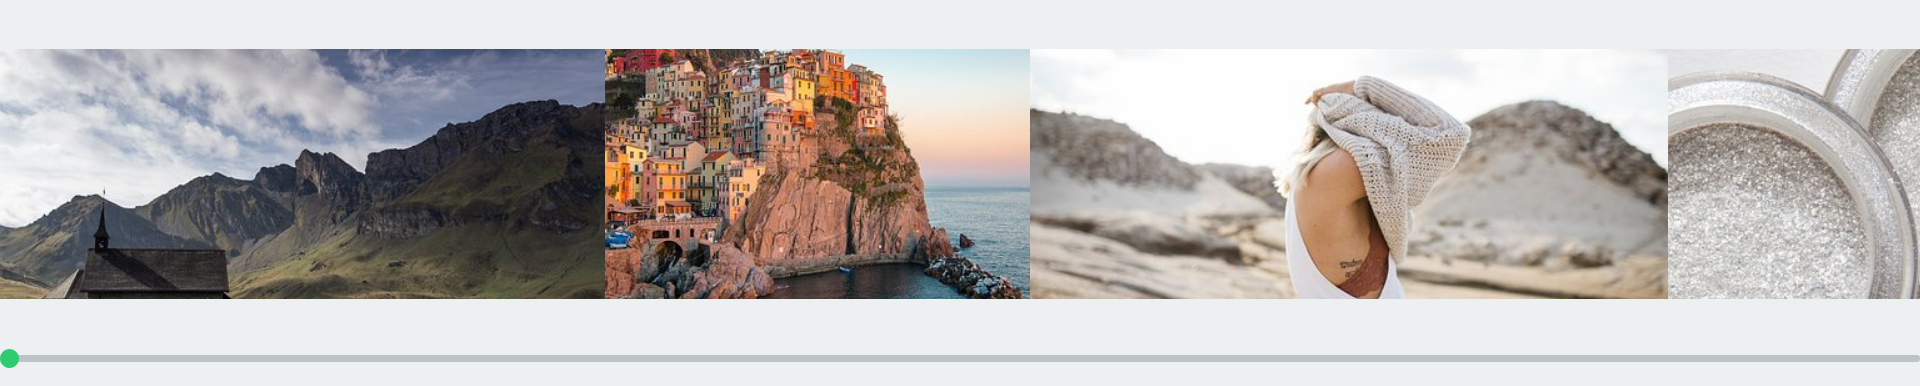
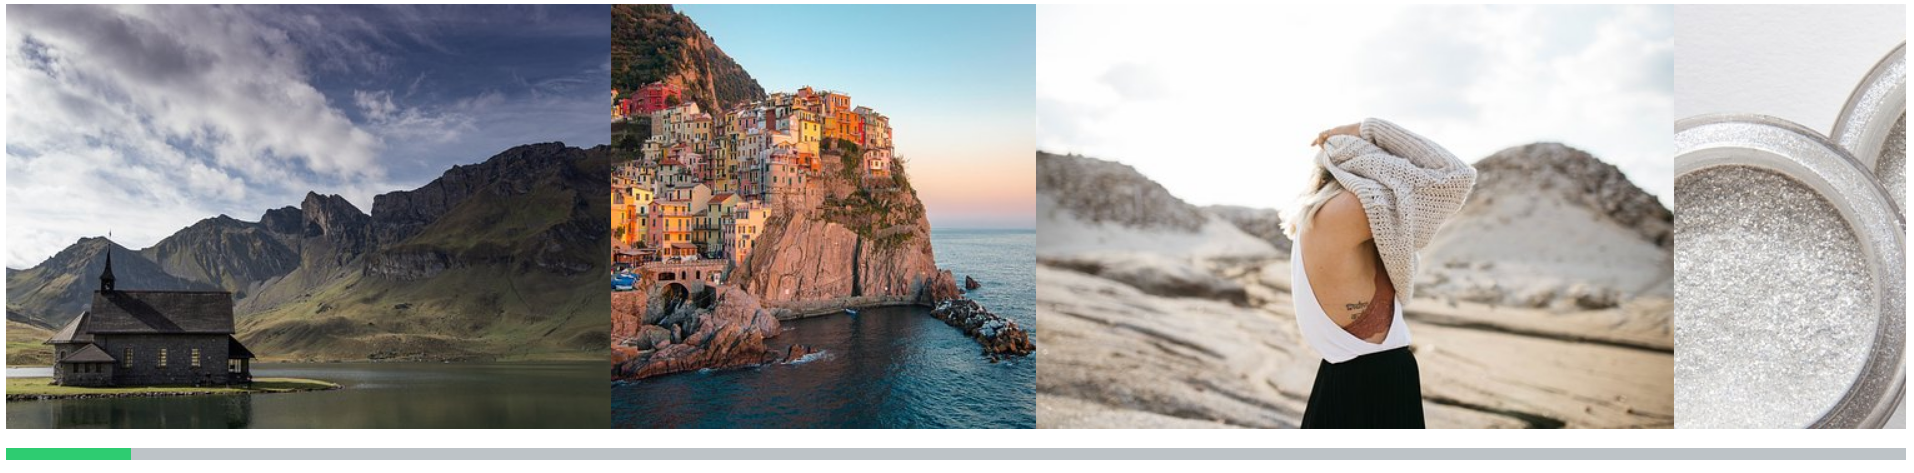
refactored README.md

diff --git a/README.md b/README.md
@@ -3,7 +3,7 @@
 React-smart-slider is a library that allows you to create horizontal slider in easy way.
 
 <p align="center">
-  <img src="assets/react-smart-slider-demo-first.gif" />
+  <img src="assets/react-smart-slider-demo-default.gif" />
 </p>
 
 ### Features
@@ -19,12 +19,10 @@ React-smart-slider is a library that allows you to create horizontal slider in e
 
 Property      | Type          | Description
 ------------- | ------------- | ------------
-numCols       | number        | Default: `1`.<br> Number of visible columns.<br>If 1 width of each child is 100%.
+numCols       | number        | Default: `undefined`.<br> Number of columns per container width.<br>If 1, width of each child is 100%.<br>If not provided, column has child width.
 spacing       | number        | Default: `0`.<br> Space in pixels between elements.
-circleSize    | number        | Default: `15`.<br> Diameter of circle in pixels.
-circleColor   | string        | Default: `#2ecc71`.<br> Color of circle.
-trackHeight   | number        | Default: `5`.<br> Height of scroll track.
-trackColor    | string        | Default: `#bdc3c7`.<br> Color of track.
+trackProps    | CssProperties | Default: `undefined`.<br> Css styles to original track.
+thumb         | Element       | Default: `rectangle`.<br> Element that if provided overrides default rectangle.
 
 ## Usage
 
@@ -43,7 +41,14 @@ Let's create our first component
         ]
     
         return images.map(image => (
-            <Image src={image}/>
+            <img
+                src={image}
+                style={{
+                    width: '100%',
+                    height: 300,
+                    objectFit: 'cover'
+                }}
+            />
         ))
     }
     
@@ -63,9 +68,8 @@ Now we can add some props to our Slider
 
     export const Slider = () => (
             <ReactSmartSlider
-                cols={3}
+                numCols={3}
                 spacing={24}
-                circleSize={20}
             >
                 {renderImages()}
             </ReactSmartSlider>
@@ -74,5 +78,5 @@ Now we can add some props to our Slider
 After setting above props we should see something like this:
 
 <p align="center">
-  <img src="assets/react-smart-slider-demo-second.gif" />
+  <img src="assets/react-smart-slider-usage-second.gif" />
 </p>
